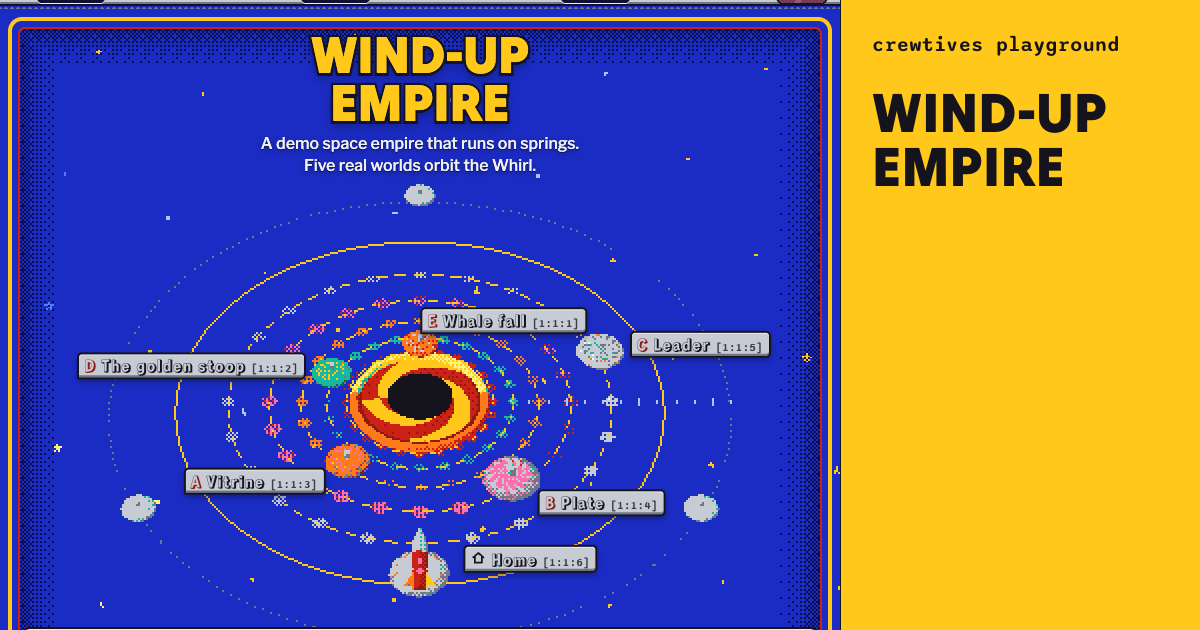
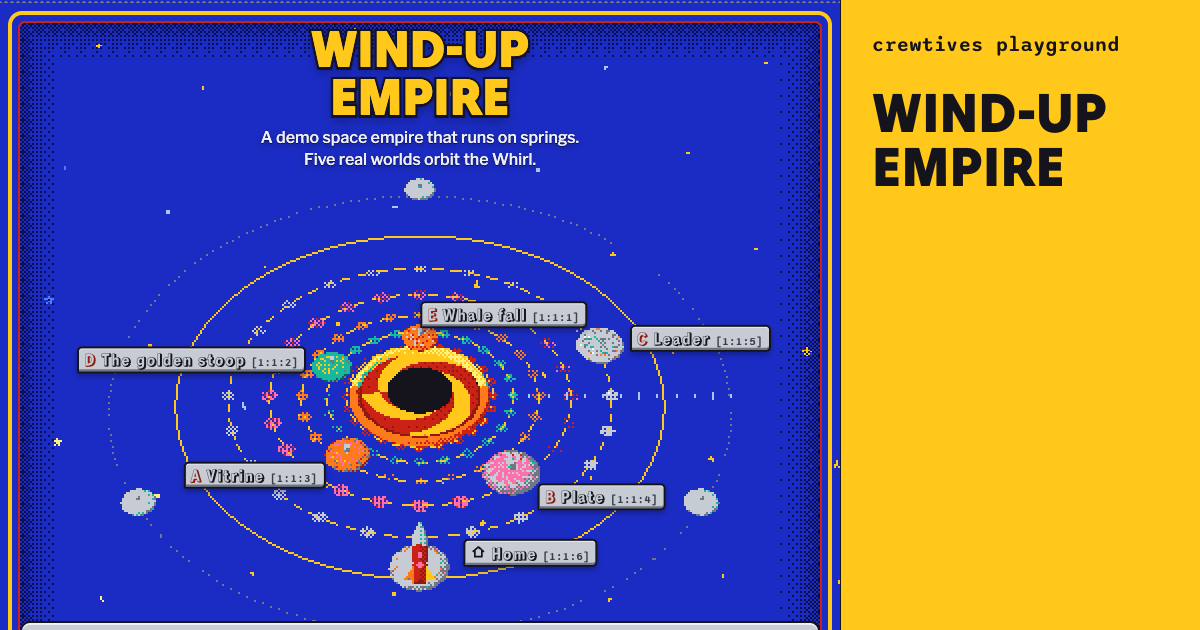
fix(og): mark Game Center's synthetic scene and reframe four share images
Game Center's frame shows Rain Run, which the page labels "Synthetic
scene", but its band had no mark because only WORLDS could set one. The
registry now declares such a frame with syntheticFrame, allowed only on
a page with no worlds in frame whose own HTML carries the label.

The launcher image is re-captured at 901x1040 and framed below its h1,
so the band's "One engine, five worlds" is the only headline and the
frame shows the three windows and "Two more plates.". C now holds the
whole 16 mm strip, D its heading and falcons with no cut text, and
Wind-Up Empire starts below the header's counters. Alt texts, sidecars,
provenance, LICENSES.md rows, docs and the change's design, spec and
tasks follow.

diff --git a/src/site/pages.ts b/src/site/pages.ts
@@ -1,8 +1,10 @@
 // Page registry of playground.crewtives.com (spec site-metadata; add-seo-and-sharing D1): the only
 // hand-written metadata of the 10 public pages. The build plugin (`build/plugin.ts`) injects it into
 // every built head, the sitemap and robots.txt are generated from it, and the share-image tool reads
-// it for the band. Whether a frame is synthetic and whose credit it needs are never decided here:
-// they come from `WORLDS`, through the worlds each share image's frame shows (`frameShows`).
+// it for the band. Whose credit a frame needs is never decided here, and neither is whether a world
+// is synthetic: both come from `WORLDS`, through the worlds each share image's frame shows
+// (`frameShows`). The one other synthetic frame, a scene of a page's own that the page itself labels
+// "Synthetic scene", is declared with `syntheticFrame`, and a test holds the page to that label (D5).
 
 import { CAT_CREDIT, type Credit, WORLDS, type WorldId } from '../playground/shared/worlds.ts';
 
@@ -48,6 +50,11 @@ export interface PageMeta {
   jsonLd: 'WebSite' | 'CreativeWork';
   /** The 4D.OS worlds visible in the share image's frame (D5). */
   frameShows: readonly WorldId[];
+  /**
+   * The frame shows a synthetic scene of the page's own, not a 4D.OS world, which the page itself
+   * labels "Synthetic scene" (Game Center's Rain Run). The band then carries the mark too (D5).
+   */
+  syntheticFrame?: true;
 }
 
 /** The site's 404 page: noindex, no canonical link, no share image and no structured data. */
@@ -106,9 +113,10 @@ export const PAGES: readonly PageMeta[] = [
     title: 'Game Center Yonjigen: the playground as a Tokyo arcade building',
     description:
       'Game Center Yonjigen: the crewtives playground as a Tokyo arcade building. Fly Rain Run in a live dithered cabinet, then ride up to five 4D.OS worlds. A free demo that runs in your browser.',
-    alt: 'Game Center Yonjigen’s first screen, captured from its live render: the arcade cabinet under its PLAYGROUND marquee, its dithered screen showing Rain Run’s demo, the controls, and the floor directory at the side. Beside it, a band reads “crewtives playground” and “GAME CENTER YONJIGEN”.',
+    alt: 'Game Center Yonjigen’s first screen, captured from its live render: the arcade cabinet under its PLAYGROUND marquee, its dithered screen showing Rain Run’s demo, a synthetic scene the page labels as such, the controls, and the floor directory at the side. Beside it, a band reads “crewtives playground” and “GAME CENTER YONJIGEN”, with the mark “synthetic”.',
     jsonLd: 'CreativeWork',
     frameShows: [],
+    syntheticFrame: true,
   }),
   page({
     slug: 'wind-up-empire',
@@ -128,7 +136,7 @@ export const PAGES: readonly PageMeta[] = [
     title: '4D.OS: one engine, five worlds, every moment of a scene at once',
     description:
       '4D.OS: live 4D scenes with every moment drawn at once, in five worlds: a synthetic cat on a stairway in three, and two subjects built from equations.',
-    alt: `The 4D.OS launcher, captured from its live render: its heading “One scene. Three worlds.” above the windows of worlds A, Vitrine, B, Plate and C, Leader, each drawing the same synthetic black cat climbing a stairway, every moment at once. Beside it, a band reads “4D.OS”, “crewtives playground” and “One engine, five worlds”, with the mark “synthetic” and the credit ${CREDIT}.`,
+    alt: `The 4D.OS launcher, captured from its live render: the windows of worlds A, Vitrine, B, Plate and C, Leader, each drawing the same synthetic black cat climbing a stairway, every moment at once, and below them the heading “Two more plates.” of worlds D and E. Beside it, a band reads “4D.OS”, “crewtives playground” and “One engine, five worlds”, with the mark “synthetic” and the credit ${CREDIT}.`,
     jsonLd: 'CreativeWork',
     frameShows: ['a', 'b', 'c'],
   }),
@@ -161,7 +169,7 @@ export const PAGES: readonly PageMeta[] = [
     title: "Leader · 4D.OS: a cat's climb threaded through a film gate",
     description:
       'A 4D reconstruction threaded like a strip of 16mm film: grab the strip, pull time through the gate.',
-    alt: `World C, Leader, captured from its live render: the projector gate between film perforations, where the cat’s night climb runs over-exposed in orange with the present cat in cyan, the source camera drawn as a white frustum, and the edge of the film strip below. Beside it, a band reads “4D.OS”, “crewtives playground” and “LEADER”, with the mark “synthetic” and the credit ${CREDIT}.`,
+    alt: `World C, Leader, captured from its live render: the projector gate, where the cat’s night climb runs over-exposed in orange with the present cat in cyan and the source camera drawn as a white frustum, and below it the 16 mm strip, whose frames show the black cat on the stairs. Beside it, a band reads “4D.OS”, “crewtives playground” and “LEADER”, with the mark “synthetic” and the credit ${CREDIT}.`,
     jsonLd: 'CreativeWork',
     frameShows: ['c'],
   }),
@@ -172,7 +180,7 @@ export const PAGES: readonly PageMeta[] = [
     title: 'The golden stoop · 4D.OS: a falcon diving on a golden spiral',
     description:
       'A peregrine falcon computed from equations dives along a golden spiral through a city of points: every moment of the flight at once, live, with the mathematics read from the same code that made it.',
-    alt: 'World D, The golden stoop, captured from its live render: the falcon computed from equations, in cyan, ahead of its earlier moments in phosphor green along a dotted golden path, beside the plotter of the golden spiral, its equation r(θ) = r₀·φ^(−2θ/π) and the ratio 1.6180 = φ read live. Beside it, a band reads “4D.OS”, “crewtives playground” and “The golden stoop”, with the mark “synthetic”.',
+    alt: 'World D, The golden stoop, captured from its live render: its heading The golden stoop. and the page’s own SYNTHETIC tag above the falcon computed from equations, in cyan, flying among its earlier moments in green along a dotted golden path through a city of points. Beside it, a band reads “4D.OS”, “crewtives playground” and “The golden stoop”, with the mark “synthetic”.',
     jsonLd: 'CreativeWork',
     frameShows: ['d'],
   }),
@@ -197,9 +205,9 @@ export function pageForRoute(route: string): PageMeta | undefined {
 
 const shown = (page: PageMeta) => WORLDS.filter((w) => page.frameShows.includes(w.id));
 
-/** True when the share image's frame shows a synthetic scene (`WORLDS[].synthetic`). */
+/** True when the share image's frame shows a synthetic scene: a synthetic world (`WORLDS[].synthetic`) or the page's own labeled one. */
 export function isSynthetic(page: PageMeta): boolean {
-  return shown(page).some((w) => w.synthetic);
+  return page.syntheticFrame === true || shown(page).some((w) => w.synthetic);
 }
 
 /** The credit the share image must carry: the cat's when its frame shows world A, B or C. */

diff --git a/src/site/og/cards.ts b/src/site/og/cards.ts
@@ -3,7 +3,8 @@
 // one, the 4D.OS worlds that region shows, and the band beside it: the page's own typefaces, colors
 // read from its own tokens, and the strings it carries. `tools/capture-og.ts` composes the images
 // from this; `cards.test.ts` checks it without a browser. Whether a band says "synthetic" and whose
-// credit it carries is never written here: it comes from the registry (`isSynthetic`, `creditFor`).
+// credit it carries is never written here: it comes from the registry (`isSynthetic`, `creditFor`),
+// which reads the worlds a card `shows` and, for a scene of a page's own, its `syntheticFrame`.
 
 import { readFileSync } from 'node:fs';
 import { resolve } from 'node:path';
@@ -111,7 +112,7 @@ export const CARDS: readonly Card[] = [
     record: CAPTURES_RECORD,
     region: { x: 45, y: 0 },
     shows: [],
-    depicts: 'Game Center Yonjigen’s first screen: the arcade cabinet under its PLAYGROUND marquee, its dithered screen showing Rain Run’s demo (a scene the page computes itself, not a 4D.OS world), the controls, and the floor directory at the side',
+    depicts: 'Game Center Yonjigen’s first screen: the arcade cabinet under its PLAYGROUND marquee, its dithered screen showing Rain Run’s demo (a synthetic scene the page computes itself and labels as such, not a 4D.OS world), the controls, and the floor directory at the side',
     title: 'GAME CENTER YONJIGEN',
     display: { file: 'src/playground/game-center/fonts/bungee-latin-400-normal.woff2', weight: 400 },
     text: { file: 'src/playground/game-center/fonts/m-plus-rounded-1c-latin-800-normal.woff2', weight: 800 },
@@ -123,7 +124,7 @@ export const CARDS: readonly Card[] = [
     slug: 'wind-up-empire',
     source: `${CAPTURES_DIR}/wind-up-empire.png`,
     record: CAPTURES_RECORD,
-    region: { x: 0, y: 71 },
+    region: { x: 0, y: 77 },
     shows: [],
     depicts: 'Wind-Up Empire’s first screen: the WIND-UP EMPIRE title over an orrery of tin tops printed in each 4D.OS world’s inks and labeled with the worlds’ names, around the black-hole Whirl; the tops are toys of the page, not views of the worlds',
     title: 'WIND-UP EMPIRE',
@@ -137,9 +138,9 @@ export const CARDS: readonly Card[] = [
     slug: '4d-os',
     source: `${CAPTURES_DIR}/4d-os.png`,
     record: CAPTURES_RECORD,
-    region: { x: 30, y: 79 },
+    region: { x: 28, y: 368 },
     shows: ['a', 'b', 'c'],
-    depicts: 'the 4D.OS launcher: its heading "One scene. Three worlds." above the windows of worlds A, Vitrine, B, Plate and C, Leader, each drawing the same synthetic black cat climbing a stairway, every moment at once',
+    depicts: 'the 4D.OS launcher: the windows of worlds A, Vitrine, B, Plate and C, Leader, each drawing the same synthetic black cat climbing a stairway, every moment at once, and below them the heading "Two more plates." of worlds D and E',
     title: 'One engine, five worlds',
     display: { file: `${A.fonts}/host-grotesk-latin-wght.woff2`, weight: 700, tracking: -0.035 },
     text: { file: `${A.fonts}/departure-mono-regular.woff2`, weight: 400 },
@@ -179,9 +180,9 @@ export const CARDS: readonly Card[] = [
     slug: '4d-os-c',
     source: 'src/pipeline/captures/c-leader.png',
     record: STILLS_RECORD,
-    region: { x: 286, y: 120 },
+    region: { x: 295, y: 220 },
     shows: ['c'],
-    depicts: 'world C, Leader: the projector gate between film perforations, where the cat’s night climb runs over-exposed in orange with the present cat in cyan, the source camera drawn as a white frustum, and the edge of the film strip below',
+    depicts: 'world C, Leader: the projector gate, where the cat’s night climb runs over-exposed in orange with the present cat in cyan and the source camera drawn as a white frustum, and below it the 16 mm strip, whose frames show the black cat on the stairs',
     title: 'LEADER',
     display: { file: `${C.fonts}/big-shoulders-stencil-latin-wght.woff2`, weight: 800, tracking: 0.02 },
     text: { file: `${C.fonts}/archivo-latin-wdth.woff2`, weight: 500, variation: "'wdth' 92" },
@@ -193,9 +194,9 @@ export const CARDS: readonly Card[] = [
     slug: '4d-os-d',
     source: 'sites/4d-os/public/launcher/d-golden-stoop.png',
     record: STILLS_RECORD,
-    region: { x: 360, y: 175 },
+    region: { x: 0, y: 0 },
     shows: ['d'],
-    depicts: 'world D, The golden stoop: the falcon computed from equations, in cyan, ahead of its earlier moments in phosphor green along a dotted golden path, beside the plotter of the golden spiral, its equation r(θ) = r₀·φ^(−2θ/π) and the ratio 1.6180 = φ read live',
+    depicts: 'world D, The golden stoop: its heading The golden stoop. and the page’s own SYNTHETIC tag above the falcon computed from equations, in cyan, flying among its earlier moments in green along a dotted golden path through a city of points',
     title: 'The golden stoop',
     display: { file: `${D.fonts}/tektur-latin-greek-wdth-wght.woff2`, weight: 500, variation: "'wdth' 75", tracking: -0.012 },
     text: { file: `${D.fonts}/jura-latin-greek-wght.woff2`, weight: 600 },

diff --git a/src/site/pages.test.ts b/src/site/pages.test.ts
@@ -5,7 +5,7 @@ import { describe, expect, test, vi } from 'vitest';
 import { routeOf } from './build/plugin.ts';
 import { CAT_CREDIT } from '../playground/shared/worlds.ts';
 import { collapse, metaDescription } from './head.ts';
-import { CAT_MODEL, creditFor, NOT_FOUND, PAGES, type PageMeta, pageForRoute, SITE_ORIGIN } from './pages.ts';
+import { CAT_MODEL, creditFor, isSynthetic, NOT_FOUND, PAGES, type PageMeta, pageForRoute, SITE_ORIGIN } from './pages.ts';
 
 const repo = resolve(import.meta.dirname, '../..');
 
@@ -71,6 +71,20 @@ describe('page registry (site-metadata, "One registry for every public page")', 
     for (const page of PAGES) {
       expect(page.image.alt.includes(CAT_CREDIT.text), page.slug).toBe(creditFor(page) !== null);
     }
+  });
+
+  test('a synthetic frame that is not a world is one the page itself labels "Synthetic scene"', () => {
+    const flagged = PAGES.filter((p) => p.syntheticFrame);
+    expect(flagged.map((p) => p.slug)).toEqual(['game-center']);
+    for (const page of flagged) {
+      // The flag is only for scenes of a page's own: a world is marked through `frameShows`.
+      expect(page.frameShows, page.slug).toEqual([]);
+      expect(readFileSync(sourceHtml(page), 'utf8'), page.slug).toMatch(/>\s*Synthetic scene\s*</);
+    }
+  });
+
+  test('each alt quotes the mark exactly when the band carries it', () => {
+    for (const page of PAGES) expect(page.image.alt.includes('the mark “synthetic”'), page.slug).toBe(isSynthetic(page));
   });
 
   test('JSON-LD kinds: WebSite on /, CreativeWork elsewhere', () => {

diff --git a/tools/capture-og.ts b/tools/capture-og.ts
@@ -128,11 +128,11 @@ const CAPTURES: Record<CaptureSlug, CaptureConfig> = {
   },
   '4d-os': {
     route: '/4d-os/',
-    viewport: { width: 901, height: 710 },
+    viewport: { width: 901, height: 1040 },
     reducedMotion: false,
     boot: true,
     clockMs: 2000,
-    why: '901 is the narrowest width that keeps the three world windows in a row (the grid drops to one column at 900 and below), so the heading and all three windows fit in one 840×630 region; at 710 tall the windows end inside the viewport',
+    why: '901 is the narrowest width that keeps the three world windows in a row (the grid drops to one column at 900 and below); at 1040 tall one 840×630 region holds the three windows and, below them, the whole heading of worlds D and E, "Two more plates.", inside the viewport',
   },
 };
 const CAPTURE_SLUGS = Object.keys(CAPTURES) as CaptureSlug[];

diff --git a/openspec/changes/add-seo-and-sharing/design.md b/openspec/changes/add-seo-and-sharing/design.md
@@ -74,11 +74,12 @@ export interface PageMeta {
   image: { path: `/og/${Slug}.png`; width: 1200; height: 630; alt: string };  // alt 40–420; the build appends ?v= (D2)
   jsonLd: 'WebSite' | 'CreativeWork';
   frameShows: readonly WorldId[];     // 4D.OS worlds visible in the share image's frame (D5)
+  syntheticFrame?: true;              // the frame shows a scene of the page's own that it labels "Synthetic scene" (D5)
 }
 export const PAGES: readonly PageMeta[];               // exactly the 10 routes, in this order
 export const NOT_FOUND: { file: '404.html'; title: string };  // noindex, no canonical, no share image
 export function pageForRoute(route: string): PageMeta | undefined;
-export function isSynthetic(page: PageMeta): boolean;  // from WORLDS[].synthetic
+export function isSynthetic(page: PageMeta): boolean;  // WORLDS[].synthetic of frameShows, or syntheticFrame
 export function creditFor(page: PageMeta): Credit | null;  // CAT_CREDIT when frameShows has a, b or c
 ```
 
@@ -195,13 +196,13 @@ The SVGs are drawn by hand as small files. The rasters are rendered from those S
 |---|---|---|---|
 | `4d-os-a` | `src/pipeline/captures/a-vitrine.png` (1200×900) | 840×630 around the cat on the stairs | `a` |
 | `4d-os-b` | `src/pipeline/captures/b-plate.png` | around the staircase of cats | `b` |
-| `4d-os-c` | `src/pipeline/captures/c-leader.png` | around the projector gate | `c` |
-| `4d-os-d` | `sites/4d-os/public/launcher/d-golden-stoop.png` | around the falcon and the spiral | `d` |
+| `4d-os-c` | `src/pipeline/captures/c-leader.png` | the projector gate and the 16 mm strip below it | `c` |
+| `4d-os-d` | `sites/4d-os/public/launcher/d-golden-stoop.png` | the heading, the SYNTHETIC tag and the falcons on the dotted path | `d` |
 | `4d-os-e` | `sites/4d-os/public/launcher/e-whale-fall.png` | around the whale and the disk | `e` |
-| `4d-os` | new capture of `/4d-os/` (booted, clock paused) | the world windows, as many of A, B, C as fit | `a`, `b`, `c` (provisional) |
+| `4d-os` | new capture of `/4d-os/` (booted, clock paused) | the world windows A, B, C and the heading of D and E below them | `a`, `b`, `c` |
 | `museum` | new capture of `/` with reduced motion | the first screen: the clock and sheet 004 | none |
 | `bloomscope` | new capture of `/bloomscope/` with reduced motion | the first screen's pre-exposed kaleidoscope | none |
-| `game-center` | new capture of `/landings/game-center/` with reduced motion | the first screen's cabinet | none |
+| `game-center` | new capture of `/landings/game-center/` with reduced motion | the first screen's cabinet | none (`syntheticFrame`: Rain Run) |
 | `wind-up-empire` | new capture of `/landings/wind-up-empire/` with reduced motion | the first screen's tin toys | none |
 
 Existing stills are used wherever they exist, because their provenance is already published. The new captures go to `src/site/og/captures/<slug>.png`, lossless and at the capture's full viewport, next to the composition data that reads them. That folder is under no sheet's `sources`. The capture uses:
@@ -214,6 +215,20 @@ Existing stills are used wherever they exist, because their provenance is alread
 The provenance records the viewport, dpr, reduced motion, clock, browser version and renderer.
 
 A frame that reaches world A, B or C in any form (the museum's index row 001, a landing's demo index, a launcher window) shows the cat, and its `frameShows` must list it.
+
+**A synthetic scene that is not a world still gets the mark.** Game Center's frame shows Rain Run, the scene its cabinet computes from equations, which the page labels "Synthetic scene" on the screen itself (`landing-game-center`). Rain Run is not one of the five worlds, so `WORLDS` cannot say it is synthetic, and `worlds.ts` is a sheet source that this change must not edit. The registry therefore declares it with `syntheticFrame: true`, which `isSynthetic` ORs with the worlds' flag. It is still not a free choice: a test allows the flag only on a page whose `frameShows` is empty and whose own HTML carries a "Synthetic scene" label, so the band follows what the page already says. Only Game Center has it. Wind-Up Empire's "Synthetic scene" stamps sit on the world stills in its tray, outside its frame, and its frame's tin tops are toys of the page, so it gets no mark.
+*Alternatives.*
+- Leaving Game Center's band without the mark, because the capture already shows the page's "SYNTHETIC SCENE" label, was rejected: that label is about 10 px tall in the frame and cannot be read at the sizes cards are shown, while D and E, also computed from equations, carry the mark.
+- Adding Rain Run to `WORLDS` was rejected: it is not a world, and `worlds.ts` is a sheet source.
+
+**Where the frame falls, and what each region leaves out.** The four regions revised after review are chosen so that no text of the work is cut at an edge of the frame; scene content may run past it, as in any framing.
+- `4d-os`: at 901 px, the narrowest width that keeps the three windows in a row (the grid drops to one column at 900), the windows span x 28–872, 845 px, so an 840 px frame always loses at least 5 px of the row. The region starts at the page's own margin, x 28, and gives up C's inset and right border; the band's hairline, in the same ink, closes C's window. At 901×1040, the region at y 368 holds the three windows, the launcher's line crediting the cat model, and the whole heading "Two more plates." of worlds D and E, 18 px above the frame's bottom edge, which falls just above the first line of the heading's lede. The launcher's own h1, "One scene. Three worlds.", is left out, so that the band's "One engine, five worlds" is the only headline and the frame backs it: three windows and two more plates.
+- `4d-os-c`: the region at x 295, y 220 holds the gate with its right perforations, the frustum, the present cat and the whole 16 mm strip with the cat in its frames. It ends 1 px before the gate's vertical edge label and before the side panel.
+- `4d-os-d`: the region at x 0, y 0 holds the page's heading, its SYNTHETIC tag and the falcon's row, as B and E show their headings. An earlier moment of the falcon runs past the right edge.
+- `wind-up-empire`: the region at y 77 starts below the header's rule, so none of its counters shows.
+*Alternatives.*
+- A launcher frame that shows all five worlds was rejected as impossible at one to one: at 901×1040 the A–C windows span y 396–753 and the D–E windows start at y 1097 and are 465 px tall, and the gap between the rows shrinks with the viewport height (12vh and 5vh) but never to 630 px for both. A frame with 16 px of margin on both sides of the three windows is impossible too (845 px of windows in 840 px). Keeping the h1 in the frame was rejected: at about 74 px it outweighed the band's 56 px title and read "Three worlds" against the band's "five worlds".
+- For `4d-os-d`, keeping the plotter (x 360, y 175) was rejected: at every region that shows the plotter, a cut text sits at an edge, either "NT" of "SCROLL TO SEE EVERY MOMENT" or the SYNTHETIC tag and "stroke", because the tag ends at y 168 and that line starts at y 775, 607 px apart, while the region needs 630.
 
 **Which worlds a frame shows is settled before any image is composed.** The capture step (task 4.3) fixes each region and records the worlds it shows in `src/site/og/cards.ts` (`shows`). Group A then sets the registry's `frameShows` and `alt` from it (task 2.5), and only then does group B compose (task 4.4). `cards.test.ts` requires `shows` to equal `frameShows`. Because `creditFor` and `isSynthetic` drive the band text, the sidecars and the `LICENSES.md` row class, composing before the registry is settled would leave them out of step.
 
@@ -472,4 +487,4 @@ The paths that are sheet sources may be read and imported (the worlds' font file
 ## Open Questions
 
 - Exact wording of the 10 share titles and alt texts within the bounds of D1. These are settled while writing the registry (tasks 1.1 and 2.5) and do not change the specs.
-- The exact frame region of each new capture. It is settled in task 4.3 and recorded in `cards.ts` and the provenance. If it changes which worlds a frame shows, task 2.5 updates the registry before any image is composed.
+- The exact frame region of each new capture. It is settled in task 4.3, revised in task 5.8, and recorded in `cards.ts` and the provenance. If it changes which worlds a frame shows, task 2.5 updates the registry before any image is composed.

diff --git a/LICENSES.md b/LICENSES.md
@@ -75,8 +75,8 @@ Everything in this section is made by the project's own code. A row is marked as
 | Museum loop and poster, sheet 003 · Whale fall (`e`) | Recorded from the live render of `/4d-os/e/` on 2026-09-29, for the public release, with frames identical to the first recording of 2026-09-25; see the loop's `provenance.json`. Controlled clock, one pixel per display block, verified exact (0 differing pixels); FORWARD and REWIND passes of 45 frames at 15 fps, in 4DLP with gzip; the poster is frame 0 as lossless WebP, with its origin in `poster.webp.json`. Synthetic scene, computed from the project's own equations. | Own work, MIT | `sites/playground/public/loops/e/` |
 | Museum loop and poster, sheet 004 · Bloomscope (`bloomscope`) | Recorded from the live render of `/bloomscope/` on 2026-09-29, for the public release, with frames identical to the first recording of 2026-09-25; see the loop's `provenance.json`. Controlled clock, one pixel per display block, verified exact (0 differing pixels); a FORWARD pass of 45 frames at 15 fps, in 4DLP with gzip; the poster is frame 0 as lossless WebP, with its origin in `poster.webp.json`. A work computed in the browser, with no pack. | Own work, MIT | `sites/playground/public/loops/bloomscope/` |
 | Share images that show the cat (`4d-os.png`, `4d-os-a.png`, `4d-os-b.png`, `4d-os-c.png`) | 1200×630 link-preview images composed by `tools/capture-og.ts` (`compose` mode) for `/4d-os/` and worlds A, B and C. At the left, an 840×630 region of a real capture of the page's live render (the launcher capture below, or the stills of A, B and C in `src/pipeline/captures/`), copied pixel for pixel: not scaled, re-dithered, filtered or retouched. At the right, beside it, a band set in the page's own typefaces and colors that carries the title, the site name, the mark "synthetic" and the cat's credit, *"Cat" by J-Toastie, CC-BY 3.0*, inside the image. The band's rendered text is an output of the fonts, which the OFL and Apache-2.0 do not restrict. Each image has its origin in a `<slug>.png.json` sidecar and its full record in `provenance.json`, next to it. Synthetic scene. | Derivative of a CC-BY 3.0 model: requires the cat's credit | `sites/playground/public/og/` |
-| Other share images (`museum.png`, `bloomscope.png`, `game-center.png`, `wind-up-empire.png`, `4d-os-d.png`, `4d-os-e.png`) | 1200×630 link-preview images composed by `tools/capture-og.ts` the same way, for the museum, Bloomscope, the two landings and worlds D and E: an 840×630 region of a real capture of the live render (the captures below, or the launcher stills of D and E), copied pixel for pixel, beside a band in the page's own typefaces and colors. None shows the cat; D and E carry the mark "synthetic". The band's rendered text is an output of the fonts, which the OFL and Apache-2.0 do not restrict. Sidecars and `provenance.json` next to them. | Own work, MIT | `sites/playground/public/og/` |
-| Share-image source capture that shows the cat (`4d-os.png`) | Screenshot of the live render of `/4d-os/` at 901×710 (the launcher's three world windows, pack `cat-stairs`), taken by `tools/capture-og.ts` (`capture` mode) on 2026-09-29 in Chromium with SwiftShader, with a controlled clock; lossless, not retouched. Its record (route, viewport, clock, browser, renderer and the commit of the served build) is in `provenance.json`, next to it. No page serves it. | Derivative of a CC-BY 3.0 model: requires the cat's credit | `src/site/og/captures/` |
+| Other share images (`museum.png`, `bloomscope.png`, `game-center.png`, `wind-up-empire.png`, `4d-os-d.png`, `4d-os-e.png`) | 1200×630 link-preview images composed by `tools/capture-og.ts` the same way, for the museum, Bloomscope, the two landings and worlds D and E: an 840×630 region of a real capture of the live render (the captures below, or the launcher stills of D and E), copied pixel for pixel, beside a band in the page's own typefaces and colors. None shows the cat. D and E, and Game Center, whose frame shows Rain Run, a synthetic scene the page labels as such, carry the mark "synthetic". The band's rendered text is an output of the fonts, which the OFL and Apache-2.0 do not restrict. Sidecars and `provenance.json` next to them. | Own work, MIT | `sites/playground/public/og/` |
+| Share-image source capture that shows the cat (`4d-os.png`) | Screenshot of the live render of `/4d-os/` at 901×1040 (the launcher's three world windows, pack `cat-stairs`, and the heading of worlds D and E), taken by `tools/capture-og.ts` (`capture` mode) on 2026-09-29 in Chromium with SwiftShader, with a controlled clock; lossless, not retouched. Its record (route, viewport, clock, browser, renderer and the commit of the served build) is in `provenance.json`, next to it. No page serves it. | Derivative of a CC-BY 3.0 model: requires the cat's credit | `src/site/og/captures/` |
 | Other share-image source captures (`museum.png`, `bloomscope.png`, `game-center.png`, `wind-up-empire.png`) | Screenshots of the live render of `/`, `/bloomscope/`, `/landings/game-center/` and `/landings/wind-up-empire/`, taken the same way with reduced motion, on 2026-09-29. None shows the cat. Lossless, not retouched; records in `provenance.json`, next to them. No page serves them. | Own work, MIT | `src/site/og/captures/` |
 | Site icons (`icon.svg`, `favicon.ico` and `apple-touch-icon.png` of the playground; `icon.svg` and `apple-touch-icon.png` of 4D.OS) | The playground's `icon.svg` is the museum's own mark, the same drawing as its inline icon; the 4D.OS `icon.svg` is a mark drawn by hand in the launcher's ink and paper (a stairway with the moments of a climb). `favicon.ico` (16, 32 and 48 px) and the two 180×180 `apple-touch-icon.png` are rendered from those SVGs by `tools/capture-og.ts` (`icons` mode). | Own work, MIT | `sites/playground/public/`, `sites/4d-os/public/` |
 

diff --git a/openspec/changes/add-seo-and-sharing/tasks.md b/openspec/changes/add-seo-and-sharing/tasks.md
@@ -157,7 +157,7 @@ Reading and importing from them is allowed: the font files under `src/4d-os/worl
 
 - [x] 5.1 (C) Re-check the registry against the final images. For each slug, compare `frameShows` and `image.alt` in `src/site/pages.ts` with `shows` in `src/site/og/cards.ts` and with a look at each image. If any differ (2.5 should have left none), fix the registry, re-run `tools/capture-og.ts compose <slug>` for the affected slugs, and change their `LICENSES.md` rows to the right class. Verify with `npm test` (the `shows` check and the credit and "synthetic" checks pass) and, when nothing was recomposed, with `shasum -a 256 sites/playground/public/og/*` unchanged from 4.4.
 
-  Recorded: no difference, nothing recomposed. For all 10 slugs `frameShows` equals `shows` in `cards.ts`, and each alt's first half is its card's `depicts`, with the band text quoted as drawn. Each image was viewed: the cat's credit is on `4d-os`, `4d-os-a`, `4d-os-b` and `4d-os-c` only, and "synthetic" on `4d-os` and the five worlds only. Two calls were re-checked and kept. Wind-Up Empire's frame shows tin tops printed in the worlds' inks and labeled with their names; they are toys of the page, not views of the worlds, and no cat is drawn, so its `[]` stands. Game Center's frame shows Rain Run's own "SYNTHETIC SCENE" label, but the band's mark comes only from `WORLDS[].synthetic` (D1, D5) and Rain Run is not a 4D.OS world, so it gets no mark. `npm test`: 59 files, 710 tests pass. `shasum -a 256 sites/playground/public/og/*` is unchanged from 4.4 (21 lines), and so is its output after a further `compose` of all 10 (every image reported "identical bytes").
+  Recorded: no difference, nothing recomposed. For all 10 slugs `frameShows` equals `shows` in `cards.ts`, and each alt's first half is its card's `depicts`, with the band text quoted as drawn. Each image was viewed: the cat's credit is on `4d-os`, `4d-os-a`, `4d-os-b` and `4d-os-c` only, and "synthetic" on `4d-os` and the five worlds only. Two calls were re-checked and kept. Wind-Up Empire's frame shows tin tops printed in the worlds' inks and labeled with their names; they are toys of the page, not views of the worlds, and no cat is drawn, so its `[]` stands. Game Center's frame shows Rain Run's own "SYNTHETIC SCENE" label, but the band's mark came only from `WORLDS[].synthetic` (D1, D5) and Rain Run is not a 4D.OS world, so it got no mark; task 5.8 reversed this call. `npm test`: 59 files, 710 tests pass. `shasum -a 256 sites/playground/public/og/*` is unchanged from 4.4 (21 lines), and so is its output after a further `compose` of all 10 (every image reported "identical bytes").
 - [x] 5.2 (C) Build and loop-freshness gates (design D8, gates 1–4):
   - `npm run typecheck` and `npm test` pass;
   - `rm -rf dist && npm run build 2>&1 | grep -cE '\[museum\]|\[site\]'` prints 0. The museum plugin prints `[museum]` exactly when a sheet's sources hash differs from its loops' provenance, so this is the loop-freshness check;
@@ -217,6 +217,15 @@ Reading and importing from them is allowed: the font files under `src/4d-os/worl
   - `compose`, all 10, gave identical bytes, and sidecars and records were kept.
   - `icons` gave identical bytes.
   - `audit-site.ts dist` exits 0 (5.4).
+- [x] 5.8 (C) Review fixes, round 1 (design D5, "A synthetic scene that is not a world still gets the mark" and "Where the frame falls"):
+  - give Game Center's band the mark "synthetic" through the registry's `syntheticFrame`, allowed only on a page with an empty `frameShows` whose own HTML labels the scene "Synthetic scene"; this replaces the call recorded in 5.1;
+  - re-capture the launcher at 901×1040 and move its region to x 28, y 368, which leaves out the h1 and keeps the three windows and the heading "Two more plates.";
+  - move C to x 295, y 220 (the whole 16 mm strip), D to x 0, y 0 (heading, tag and falcons, no cut text) and Wind-Up Empire to y 77 (no header counters);
+  - recompose those five, and update their alt texts, the two `LICENSES.md` rows and `docs/site-metadata.md`.
+
+  Verify that `npm run typecheck` passes, that `npm test` passes with `dist/` moved away, that `rm -rf dist && npm run build 2>&1 | grep -cE '\[museum\]|\[site\]'` prints 0, that `audit-site.ts dist` exits 0, that the loop-freshness script reports every loop FRESH, and that the fingerprint compare shows only the head counts of 5.3.
+
+  Recorded: `npm run typecheck` prints nothing. `npm test` passes with `dist/` moved away: 59 files and 712 tests, the two new ones being the `syntheticFrame` label check and the alt check for the mark. The build prints 0 `[museum]` or `[site]` lines, and every page's `?v=` equals the first 8 hex digits of its image's SHA-256. `audit-site.ts dist` exits 0. All six loops are FRESH, and `git status --porcelain` on the paths of 5.2 prints nothing. In the fingerprint compare against the branch's baseline, only `META`, `LINK` and `SCRIPT` counts differ, as in 5.3. Each recomposed image was viewed at 1200×630, 600×315 and 300×157. The launcher's re-capture is pixel-identical to a probe of the same route and viewport taken from the same build.
 
 ## 6. Closing
 

diff --git a/openspec/changes/add-seo-and-sharing/specs/site-metadata/spec.md b/openspec/changes/add-seo-and-sharing/specs/site-metadata/spec.md
@@ -148,7 +148,7 @@ The band of each share image SHALL show, in printable text:
 - the mark "synthetic", when the frame shows a synthetic scene;
 - the credit *"Cat" by J-Toastie, CC-BY 3.0*, exactly as `LICENSES.md` sets it, when the frame shows the cat.
 
-The worlds a frame shows SHALL be declared in the registry, and whether they are synthetic and whose credit they need SHALL be read from the shared world data, never decided by hand. A frame that shows world A, B or C in any form (a live view, a still, a poster) shows the cat.
+The worlds a frame shows SHALL be declared in the registry, and whether they are synthetic and whose credit they need SHALL be read from the shared world data, never decided by hand. A frame that shows world A, B or C in any form (a live view, a still, a poster) shows the cat. A frame that shows a synthetic scene of the page's own, which is not a 4D.OS world, SHALL be declared in the registry as such, and only when the page itself labels that scene "Synthetic scene"; its band SHALL carry the mark too.
 
 The band SHALL be set in the page's own self-hosted typefaces. Every character of the band text SHALL exist in the typeface that draws it. The band's text and background colors SHALL come from the page's own color tokens, with a contrast of at least 4.5:1. Its text SHALL stay at least 32 pixels from every edge of the image.
 
@@ -158,6 +158,10 @@ The band SHALL be set in the page's own self-hosted typefaces. Every character o
 
 #### Scenario: Synthetic mark
 - **WHEN** the share image of any page whose frame shows a 4D.OS world is viewed
+- **THEN** its band reads "synthetic"
+
+#### Scenario: Synthetic mark on a scene of the page's own
+- **WHEN** the share image of `/landings/game-center/` is viewed, whose frame shows Rain Run on the cabinet screen, a scene the page labels "Synthetic scene"
 - **THEN** its band reads "synthetic"
 
 #### Scenario: No missing glyph

diff --git a/docs/site-metadata.md b/docs/site-metadata.md
@@ -37,6 +37,7 @@ Each entry of `PAGES` holds:
 | `image` | Path, 1200 × 630, and the alt text (40 to 420 characters), which describes the frame and the band and names the cat's credit when the image carries it |
 | `jsonLd` | `WebSite` on `/`, `CreativeWork` elsewhere |
 | `frameShows` | The 4D.OS worlds the share image's frame shows |
+| `syntheticFrame` | Optional: the frame shows a synthetic scene of the page's own, not a world, which the page itself labels "Synthetic scene" (only Game Center's Rain Run) |
 
 **The description is written twice on purpose.** Most pages are sources of a museum sheet, whose
 HTML cannot change without marking the sheet's loops stale, so the page keeps its own tag. The
@@ -46,7 +47,9 @@ fails, naming the page, when the two differ after whitespace is collapsed.
 **"Synthetic" and the cat's credit are never decided by hand.** `isSynthetic(page)` and
 `creditFor(page)` read them from `WORLDS` in `src/playground/shared/worlds.ts`, through the worlds in
 `frameShows`. A frame that shows world A, B or C in any form (a live view, a still, a poster) shows
-the cat, so its image, its alt text and its structured data carry the credit.
+the cat, so its image, its alt text and its structured data carry the credit. The one synthetic frame
+that is not a world, Rain Run on Game Center's cabinet, is declared with `syntheticFrame`, and a test
+requires the page's own HTML to label it "Synthetic scene", so the mark still follows the page.
 
 ### Adding a page
 
